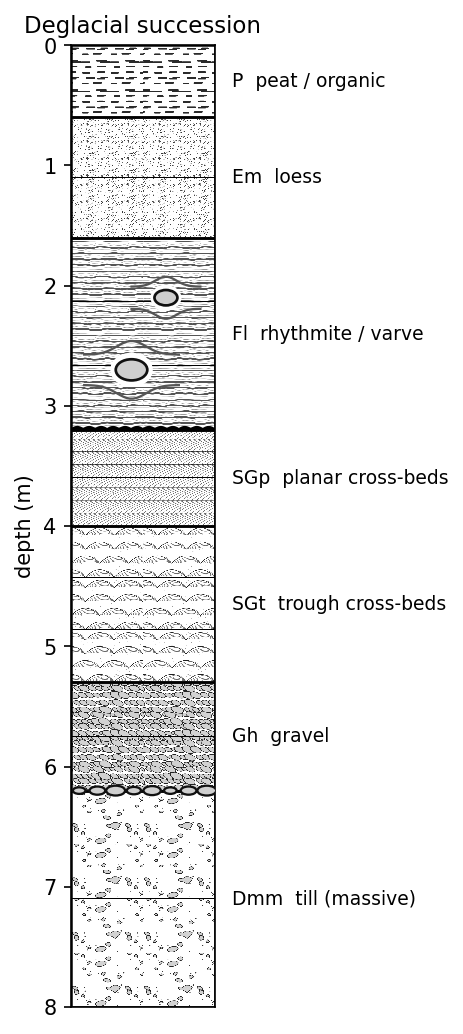
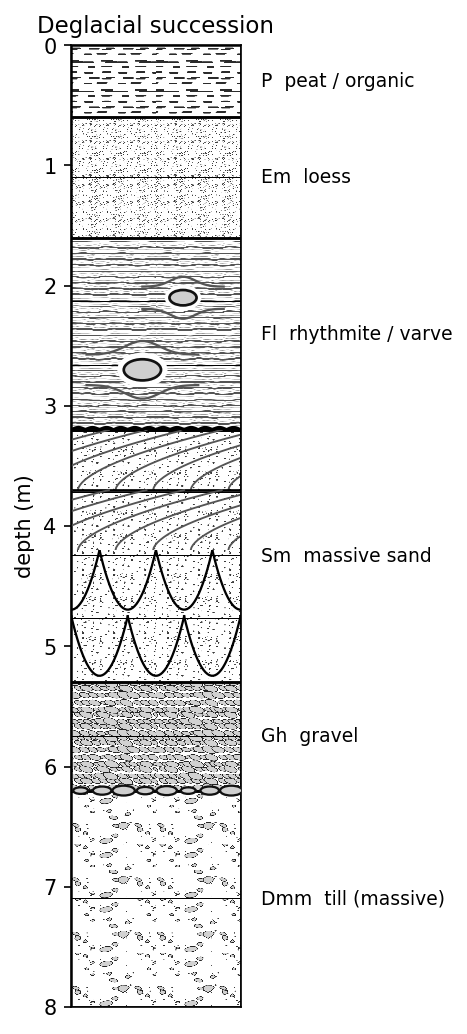
Update examples and tests to lithology-fill + structure-overlay model

diff --git a/examples/example_column.py b/examples/example_column.py
@@ -1,31 +1,36 @@
 """Worked example: a small glacial stratigraphic column.
 
 A classic deglacial succession (base to top): subglacial till -> ice-contact
-gravel -> glaciofluvial cross-bedded sand -> glaciolacustrine varves with
-dropstones -> loess -> peat. Run::
+gravel -> glaciofluvial sand (with cross-bed structures) -> glaciolacustrine
+varves with dropstones -> loess -> peat. Shows the two-class model: lithology
+*fills* with sedimentary-structure *overlays*. Run::
 
     python examples/example_column.py
 """
 import matplotlib.pyplot as plt
 
-from glacial_patterns import mpl, resolve
+from glacial_patterns import mpl, structures as st, resolve
 
-# (facies key, top depth, bottom depth) in metres, base of section at bottom
+# (lithology fill key, top depth, bottom depth) in metres
 UNITS = [
     ("Dmm", 8.0, 6.2),   # subglacial till
     ("Gh",  6.2, 5.3),   # ice-contact gravel
-    ("SGt", 5.3, 4.0),   # outwash, trough cross-bedded
-    ("SGp", 4.0, 3.2),   # outwash, planar cross-bedded
+    ("Sm",  5.3, 3.2),   # glaciofluvial sand (structures overlaid below)
     ("Fl",  3.2, 1.6),   # glaciolacustrine varves
     ("Em",  1.6, 0.6),   # loess
     ("P",   0.6, 0.0),   # peat
 ]
+LABELS = {"Dmm": 7.1, "Gh": 5.75, "Sm": 4.25, "Fl": 2.4, "Em": 1.1, "P": 0.3}
 
 fig, ax = plt.subplots(figsize=(3.4, 7))
 for code, top, bot in UNITS:
     mpl.column_fill(ax, code, 0, 1, top, bot, tile_width=0.5)
-    ax.text(1.12, (top + bot) / 2, f"{code}  {resolve(code)['alias']}",
+    ax.text(1.12, LABELS[code], f"{code}  {resolve(code)['alias']}",
             va="center", fontsize=9)
+
+# structure overlays on the sand (a different class, drawn over the lithology)
+st.trough_cross_bedding(ax, 0, 1, 5.3, 4.2)   # lower outwash: trough cross-beds
+st.cross_bedding(ax, 0, 1, 4.2, 3.2)          # upper outwash: planar cross-beds
 
 # placed features: a subglacial boulder pavement capping the till, an
 # erosional contact at the base of the lake beds, and ice-rafted dropstones

diff --git a/tests/test_structures.py b/tests/test_structures.py
@@ -9,7 +9,8 @@ from glacial_patterns import structures as st
 
 OVERLAYS = [
     st.planar_lamination, st.cross_bedding, st.trough_cross_bedding,
-    st.climbing_ripples, st.wave_ripples, st.folds, st.dispersed_clasts,
+    st.cross_lamination, st.climbing_ripples, st.wave_ripples, st.folds,
+    st.collapse, st.dispersed_clasts,
 ]
 
 

diff --git a/examples/example_hatch.py b/examples/example_hatch.py
@@ -10,7 +10,7 @@ from glacial_patterns import resolve
 from glacial_patterns.hatch import column_fill_hatch
 
 UNITS = [
-    ("Dmm", 8.0, 6.2), ("Gh", 6.2, 5.3), ("SGt", 5.3, 4.0), ("SGp", 4.0, 3.2),
+    ("Dmm", 8.0, 6.2), ("Gh", 6.2, 5.3), ("Sr", 5.3, 4.0), ("Sm", 4.0, 3.2),
     ("Fl", 3.2, 1.6), ("Em", 1.6, 0.6), ("P", 0.6, 0.0),
 ]
 